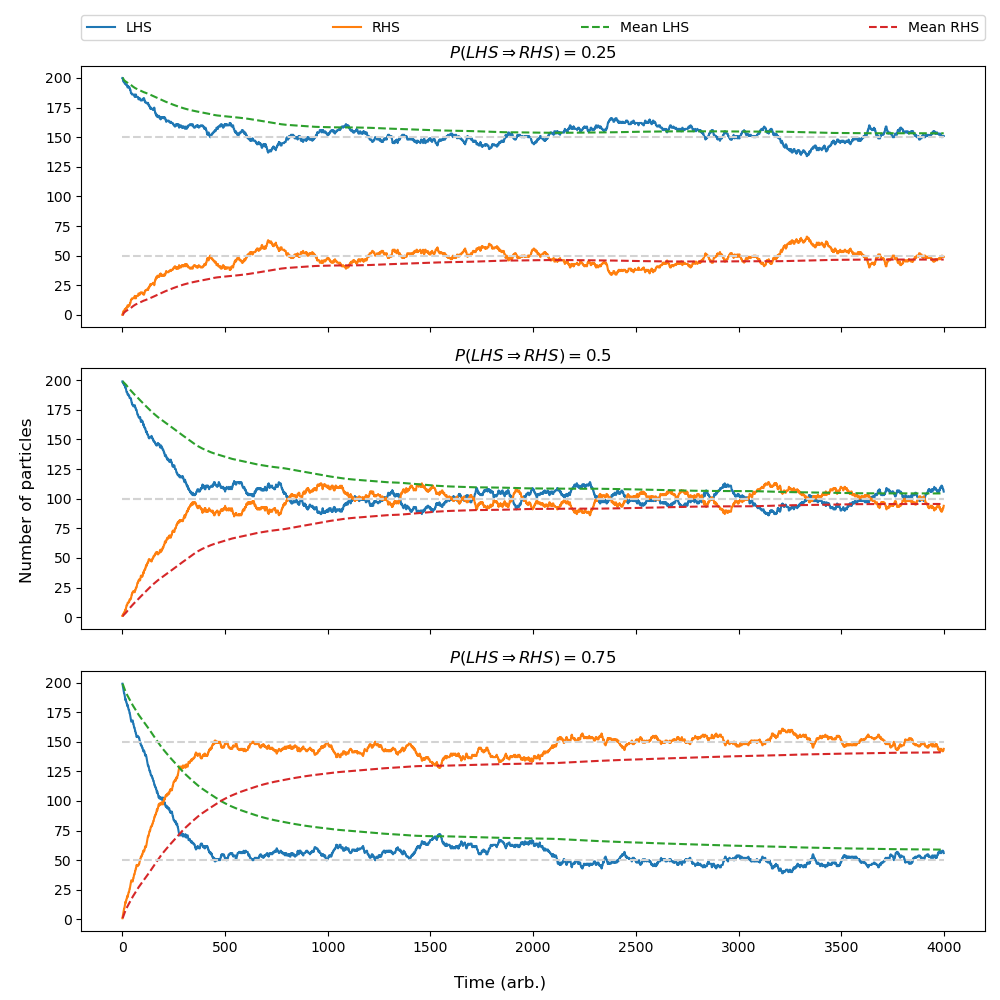
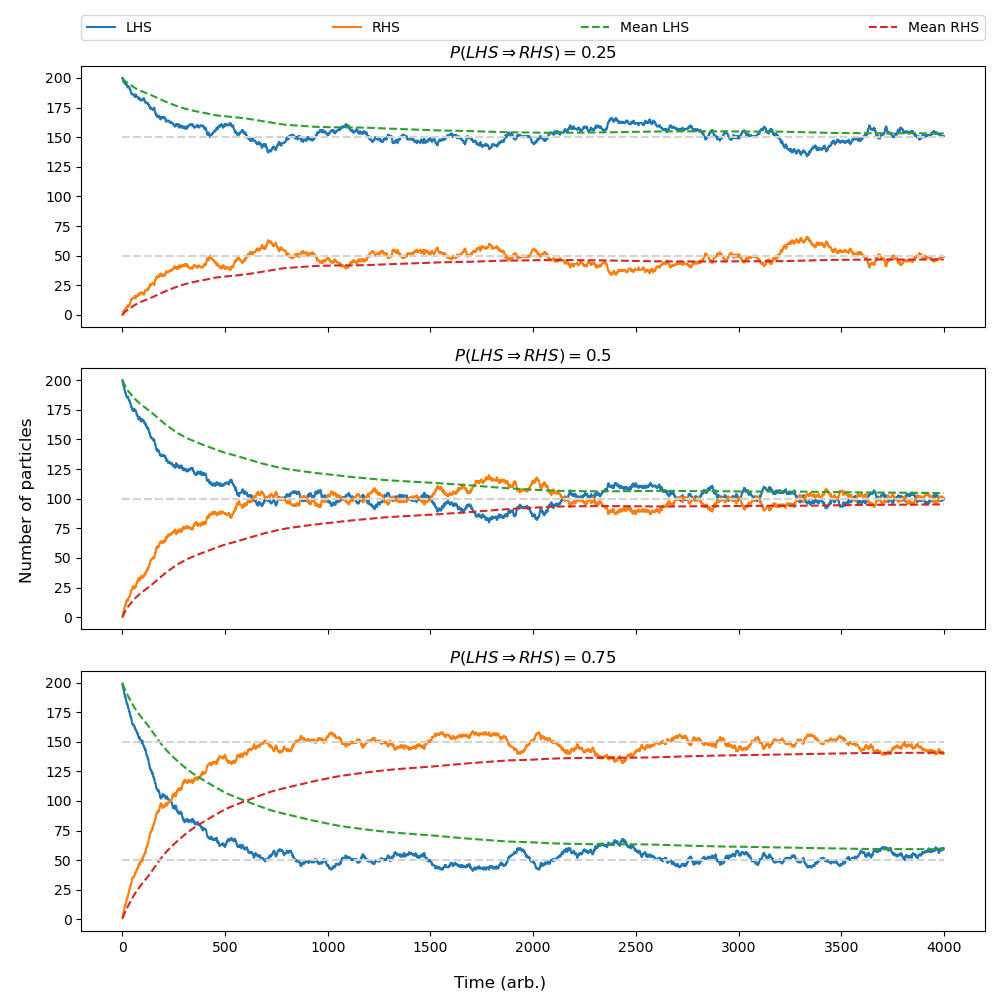
Added option to specify generator and seed

Changed region(s): [[0.124, 0.713, 0.961, 0.899], [0.124, 0.434, 0.961, 0.62], [0.124, 0.372, 0.155, 0.434]]

diff --git a/Lab 1/partitioned.py b/Lab 1/partitioned.py
@@ -14,8 +14,13 @@ def chisquare_test(array, bins):
 
     return np.sum(chi_square_array)
 
-def simple_partition(N, M, time):
+def simple_partition(generator, seed, N, M, time):
+    
+    assert generator in [PCG64,MT19937], 'rng2 - Valid bitgenerator must be used'
 
+    # Get names as strings from np.random class
+    bit_generator = generator.__name__
+    rng = Generator(generator(seed = seed))
     plt.figure()
 
     """Simple partitioned box simulation, where particles movement is dictated only by
@@ -54,12 +59,19 @@ def simple_partition(N, M, time):
     plt.xlabel("Time (arb.)")
     plt.ylabel("Number of particles")
     plt.legend()
-    plt.tight_layout()
     plt.hlines(1/2*N,0,time,'lightgrey','--')
-    plt.savefig(fname = "Lab 1/IMAGES/PCG64_Lec_Ex")
-    print("Simulation time = {}ms".format(elapsed_time))
+    plt.tight_layout()
+    plt.savefig(fname = "Lab 1/IMAGES/{}_{}_Lec_Ex".format(bit_generator, seed))
 
-def simple_partition_PROB(N, M, time, prob, plot_count):
+    return print("Simulation time = {}ms".format(elapsed_time))
+
+def simple_partition_PROB(generator, seed, N, M, time, prob, plot_count):
+    
+    assert generator in [PCG64,MT19937], 'rng2 - Valid bitgenerator must be used'
+
+    # Get names as strings from np.random class
+    bit_generator = generator.__name__
+    rng = Generator(generator(seed = seed))
 
     """Simple partitioned box simulation, where particles movement is dictated only by
     the probability of moving to the other side of the partition. This method takes input of
@@ -108,16 +120,19 @@ def simple_partition_PROB(N, M, time, prob, plot_count):
     axs[0].legend(bbox_to_anchor=(0,1.1,1,0.2), loc="lower left",
                 mode="expand", borderaxespad=0, ncol=4)
     fig.tight_layout()
-    #print("Simulation time = {}ms".format(elapsed_time))
+    
+    print("Simulation time = {}ms".format(elapsed_time))
 
-rng = Generator(PCG64(seed=2010)) # Change accordingly
-#simple_partition(200,200,4000) 
+#simple_partition(PCG64, 2010, 200, 200, 4000)
+#simple_partition(MT19937, 2010, 200, 200, 4000)
 
 prob = 0.25
 plot_count = 0
 fig, axs = plt.subplots(3, sharex=True, sharey=True, figsize = (10,10))
 while prob < 1:
-    simple_partition_PROB(200,200,4000,prob, plot_count)
+    simple_partition_PROB(PCG64, 2010, 200, 200, 4000, prob, plot_count)
+    #simple_partition_PROB(MT19937, 2010, 200, 200, 4000, prob, plot_count)
     plot_count +=1
     prob+=0.25
-plt.savefig("Lab 1/IMAGES/PCG64_Partitioned_Box")
+
+#plt.savefig("Lab 1/IMAGES/{}_Partitioned_Box.png".format(PCG64.__name__))
